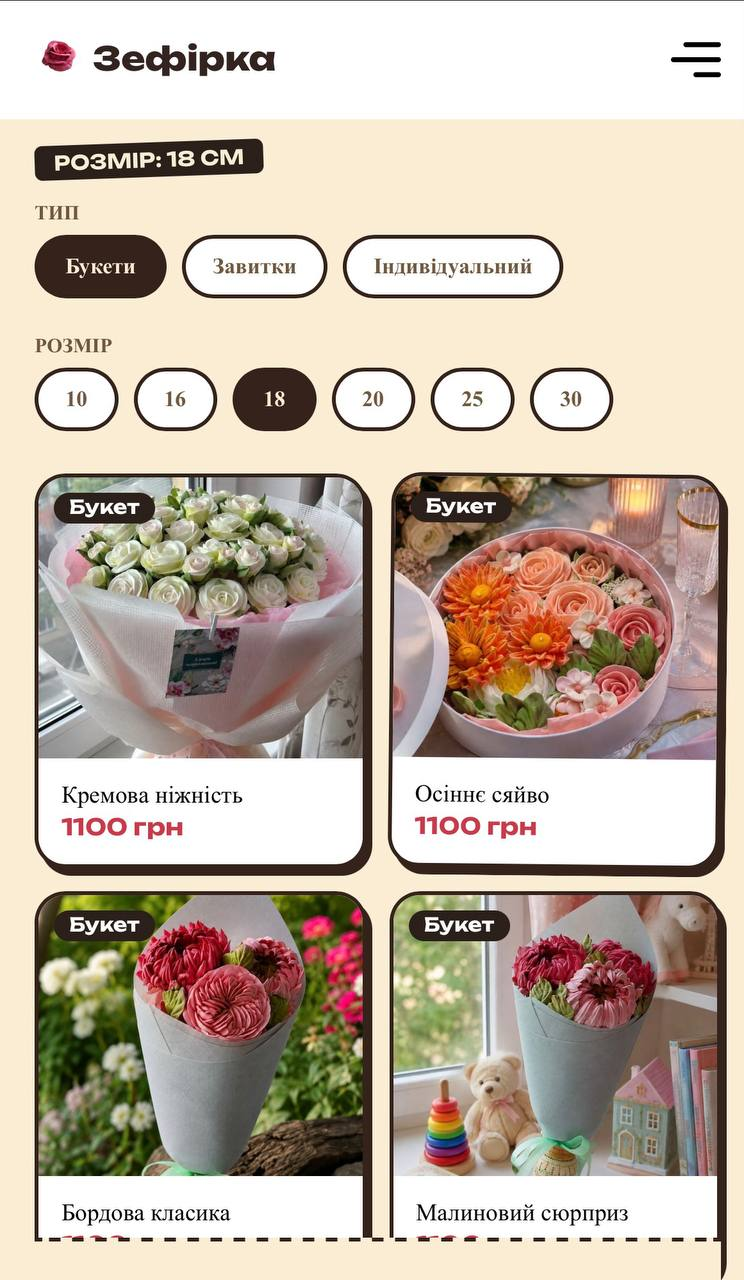
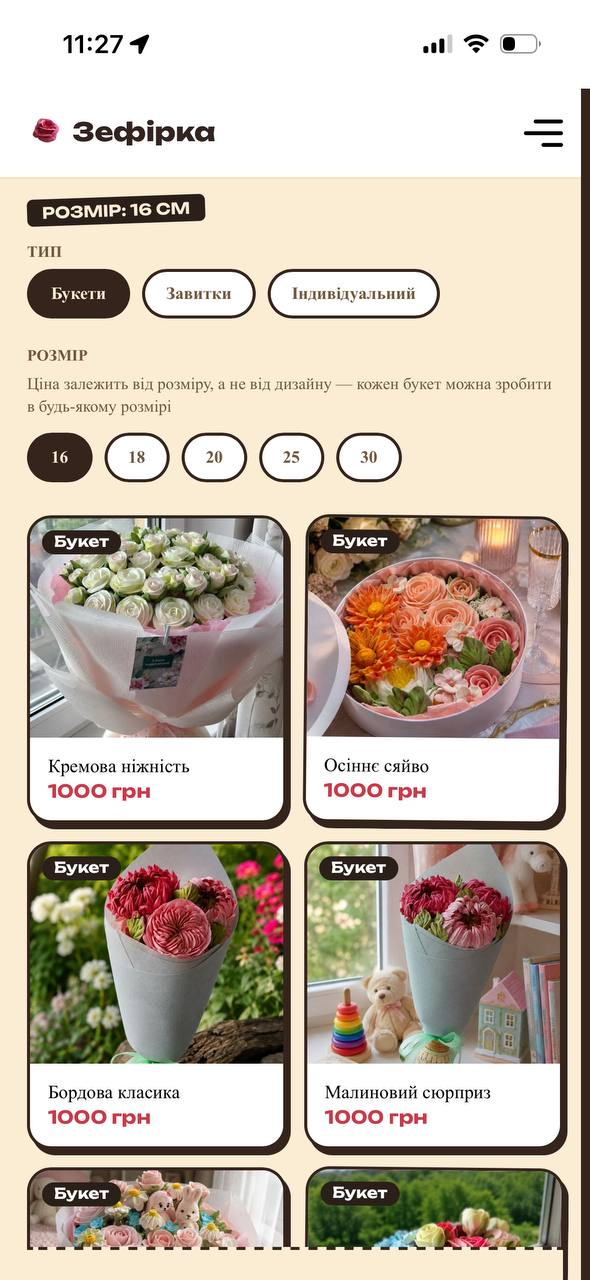
docs: update README screenshots with actual project images

diff --git a/README.md b/README.md
@@ -1,65 +1,217 @@
 # Zefirka — Marshmallow Flower Bouquets
 
-**Live:** https://zefirko.com
+<div align="center">
 
-A mobile-first e-commerce showcase site for a small home-based marshmallow ("zefir") flower bouquet business. Built solo, end to end — from the design system through a working order pipeline with real backend logic, not just a static layout.
+# 🌸 Zefirka
 
-## What it does
+**A mobile-first e-commerce showcase for handmade marshmallow flower bouquets.**
 
-- Browse bouquet designs by size and category (bouquet / curl / fully custom)
-- Live-filtered gallery — price recalculates instantly based on the selected size
-- Three tailored order flows (ready bouquet, curl, custom request), each with delivery-method-aware validation and a live price breakdown
-- Orders are sent directly to the shop owner via a Telegram bot
-- Customers can leave reviews; new reviews enter a moderation queue and are approved or rejected with a single tap on inline Telegram buttons — approved reviews then appear on the site automatically
-- Scroll-reveal animations, lazy-loaded WebP images, a fully custom "craft paper" illustrated design system (no stock photography, no UI framework)
+[**Live demo →**](https://zefirko.com)
 
-## Tech stack
+![React](https://img.shields.io/badge/React-18-61DAFB?logo=react&logoColor=white)
+![Vite](https://img.shields.io/badge/Vite-Build-646CFF?logo=vite&logoColor=white)
+![React Router](https://img.shields.io/badge/React_Router-Routing-CA4245?logo=reactrouter&logoColor=white)
+![Supabase](https://img.shields.io/badge/Supabase-Postgres-3FCF8E?logo=supabase&logoColor=white)
+![Vercel](https://img.shields.io/badge/Deployed%20on-Vercel-000000?logo=vercel&logoColor=white)
+![Telegram](https://img.shields.io/badge/Telegram-Bot_API-26A5E4?logo=telegram&logoColor=white)
 
-- **React 18 + Vite**
-- **React Router** — including nested dynamic routes (e.g. `/gallery/:size/:type`)
-- **CSS Modules** — hand-built design system, no Tailwind/MUI
-- **Framer Motion** — scroll-triggered reveal animations
-- **Vercel Serverless Functions** — backend logic with no dedicated server
-- **Supabase (Postgres)** — review storage with Row Level Security
-- **Telegram Bot API** — order notifications + review moderation via inline keyboards and webhooks
+> A solo-built, end-to-end project for a real small business — from a custom visual design system to a working order pipeline, database-backed review moderation, and live deployment.
 
-## Architecture notes
+</div>
 
-- Product data lives in plain JS arrays (`/data`); price data is kept in a **separate** array from bouquet designs specifically to avoid duplicating prices across dozens of design objects when a size price changes
-- All secrets (bot token, Supabase service role key) live only in Vercel environment variables — never shipped to the client bundle
-- Two Supabase RLS policies enforce moderation at the **database** level, not just in application code: public `SELECT` returns only `approved` reviews; public `INSERT` is only allowed with `status = 'pending'`
-- `vercel.json` rewrites all non-`/api` routes to `index.html` so deep links (e.g. `/Catalog`) resolve correctly on direct load, not only via client-side navigation
+---
 
-## Why mobile-only
+<p align="center">
+  <img src="docs/hero.jpg" alt="Zefirka — handmade marshmallow flower bouquets" width="100%">
+</p>
 
-Customers reach this business almost entirely through Instagram/Telegram on mobile, so the project was deliberately scoped mobile-first rather than splitting effort across a desktop layout that wouldn't see meaningful traffic.
+## 📸 Screenshots
 
-## Getting started
+<table>
+  <tr>
+    <td align="center" width="33%">
+      <img src="docs/hero.jpg" alt="Hero" width="100%">
+      <br><sub><b>Hero</b><br>Main landing section</sub>
+    </td>
+    <td align="center" width="33%">
+      <img src="docs/menu.jpg" alt="Menu" width="100%">
+      <br><sub><b>Menu</b><br>Navigation and categories</sub>
+    </td>
+    <td align="center" width="33%">
+      <img src="docs/catalog.jpg" alt="Catalog" width="100%">
+      <br><sub><b>Catalog</b><br>Browse bouquet designs</sub>
+    </td>
+  </tr>
+  <tr>
+    <td align="center" width="33%">
+      <img src="docs/gallery.jpg" alt="Gallery" width="100%">
+      <br><sub><b>Gallery</b><br>Filter designs and sizes</sub>
+    </td>
+    <td align="center" width="33%">
+      <img src="docs/order-bouquet.jpg" alt="Bouquet order" width="100%">
+      <br><sub><b>Bouquet order</b><br>Ready-made bouquet ordering</sub>
+    </td>
+    <td align="center" width="33%">
+      <img src="docs/order-delivery.jpg" alt="Delivery" width="100%">
+      <br><sub><b>Delivery</b><br>Delivery options and validation</sub>
+    </td>
+  </tr>
+  <tr>
+    <td align="center" width="33%">
+      <img src="docs/cta.jpg" alt="Call to action" width="100%">
+      <br><sub><b>Call to action</b><br>Conversion-focused section</sub>
+    </td>
+    <td align="center" width="33%">
+      <img src="docs/mainPage1.jpg" alt="Main page section 1" width="100%">
+      <br><sub><b>Main page</b><br>Landing page section</sub>
+    </td>
+    <td align="center" width="33%">
+      <img src="docs/mainPage2.jpg" alt="Main page section 2" width="100%">
+      <br><sub><b>Main page</b><br>Additional landing page section</sub>
+    </td>
+  </tr>
+  <tr>
+    <td align="center" width="33%">
+      <img src="docs/reviews.jpg" alt="Reviews" width="100%">
+      <br><sub><b>Reviews</b><br>Customer feedback</sub>
+    </td>
+    <td colspan="2"></td>
+  </tr>
+</table>
+
+---
+
+## ✨ Features
+
+**Product catalog**
+
+- Browse marshmallow flower bouquet designs by size and category.
+- Separate ordering options for ready-made bouquets, marshmallow curls, and fully custom requests.
+- Live-filtered gallery with prices that update automatically when the selected size changes.
+- Lazy-loaded WebP images for more efficient loading.
+
+**Ordering system**
+
+- Three tailored order flows: ready bouquet, curl, and custom request.
+- Delivery-method-aware validation.
+- Live price breakdown before submission.
+- Orders are sent directly to the shop owner through a Telegram bot.
+
+**Review system**
+
+- Customers can submit reviews through the website.
+- New reviews enter a moderation queue before publication.
+- Approve or reject reviews using inline Telegram buttons.
+- Approved reviews appear on the website automatically.
+- Supabase Row Level Security enforces review visibility and submission rules at the database level.
+
+**Design and user experience**
+
+- Mobile-first layout designed around the shop's Instagram and Telegram audience.
+- Custom craft-paper-inspired visual design system.
+- Handcrafted illustrations instead of stock photography.
+- Scroll-triggered reveal animations.
+- Custom styling without a UI component framework.
+
+---
+
+## 🧱 Tech stack
+
+| Area              | Tools                                  |
+| ----------------- | -------------------------------------- |
+| Frontend          | React 18, Vite, JavaScript             |
+| Routing           | React Router, nested dynamic routes    |
+| Styling           | CSS Modules, custom design system      |
+| Animations        | Framer Motion                          |
+| Backend           | Vercel Serverless Functions            |
+| Database          | Supabase, PostgreSQL                   |
+| Database security | Supabase Row Level Security            |
+| Notifications     | Telegram Bot API                       |
+| Moderation        | Telegram inline keyboards and webhooks |
+| Hosting           | Vercel                                 |
+
+---
+
+## 🏗 Architecture highlights
+
+- **Centralized product data:** bouquet designs are stored in plain JavaScript arrays under `/data`. Pricing is maintained separately from the design definitions, avoiding duplicated prices across multiple product objects when a size price changes.
+
+- **Dedicated order flows:** ready-made bouquets, curls, and custom requests have their own ordering logic, including validation based on the selected delivery method.
+
+- **Server-side secrets:** the Telegram bot token and Supabase service role key are stored in Vercel environment variables and are never exposed in the client bundle.
+
+- **Database-level review security:** Supabase RLS policies restrict public `SELECT` operations to approved reviews and allow public `INSERT` operations only when a review has `status = 'pending'`.
+
+- **Telegram-based moderation:** review submissions are routed to the shop owner for approval or rejection through inline buttons. Approved reviews are then available on the website.
+
+- **Serverless backend:** Vercel Serverless Functions handle backend operations without requiring a dedicated always-on server.
+
+- **Direct route support:** `vercel.json` rewrites frontend routes to `index.html`, allowing routes such as `/Catalog` to load correctly when opened directly or refreshed.
+
+- **Dynamic navigation:** React Router supports nested dynamic routes, including paths such as `/gallery/:size/:type`.
+
+---
+
+## 🚀 Getting started
+
+**Requirements:** Node.js, npm, a Supabase project, a Telegram bot, and a Vercel account for serverless development and deployment.
+
+Clone the repository and install dependencies:
 
 ```bash
+git clone YOUR_REPOSITORY_URL
+cd Zefirka
 npm install
-npm run dev          # frontend only
-npx vercel dev        # frontend + serverless /api routes (requires .env.local below)
 ```
 
-## Environment variables
+### Environment variables
 
-```
+Create a `.env.local` file in the project root:
+
+```env
 TELEGRAM_BOT_TOKEN=
 TELEGRAM_CHAT_ID=
+
 SUPABASE_SERVICE_ROLE_KEY=
+
 VITE_SUPABASE_URL=
 VITE_SUPABASE_ANON_KEY=
 ```
 
-## Screenshots
+Fill in the values using your own project credentials.
 
-![Hero](docs/hero.jpg)
-![Hero](docs/menu.jpg)
-![Gallery](docs/gallery.jpg)
-![Order form](docs/photo1.jpg)
-![Order form](docs/photo2.jpg)
+**Security note:** never commit `.env.local` or expose `TELEGRAM_BOT_TOKEN` and `SUPABASE_SERVICE_ROLE_KEY` to the browser. Keep privileged credentials exclusively in server-side environment variables.
+
+### Run locally
+
+Start the frontend development server:
+
+```bash
+npm run dev
+```
+
+For local development that includes Vercel Serverless Functions:
+
+```bash
+npx vercel dev
+```
+
+The serverless development setup requires the environment variables above.
 
 ---
 
-Built solo as a self-directed learning project, taken through to a live, real-world deployment with a real client.
+## 🎨 Design approach
+
+The visual identity is inspired by craft paper, handmade confectionery, and floral arrangements. Instead of relying on a pre-built UI framework or generic stock photography, the project uses a custom design system with illustrated elements and tailored styling.
+
+The interface was deliberately designed **mobile-first** because customers primarily discover and contact this home-based business through Instagram and Telegram on their phones.
+
+---
+
+## 👤 Author
+
+**RVasyliuk-2003** — Frontend Developer, Wrocław, Poland
+
+[GitHub](https://github.com/RVasyliuk-2003) · [Live demo](https://zefirko.com)
+
+Built solo as a self-directed learning project and deployed for a real business, with a working order pipeline and database-backed review moderation.
